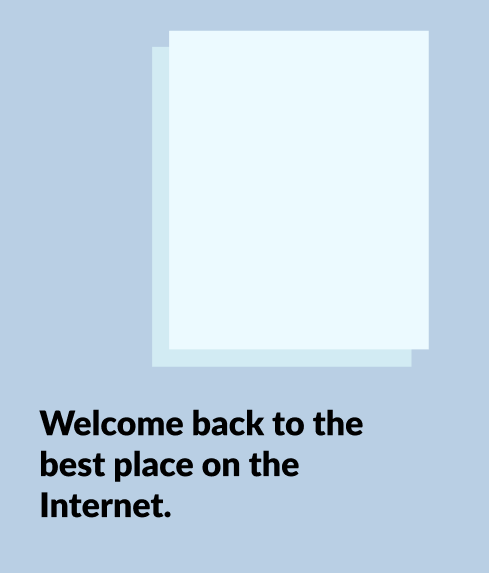
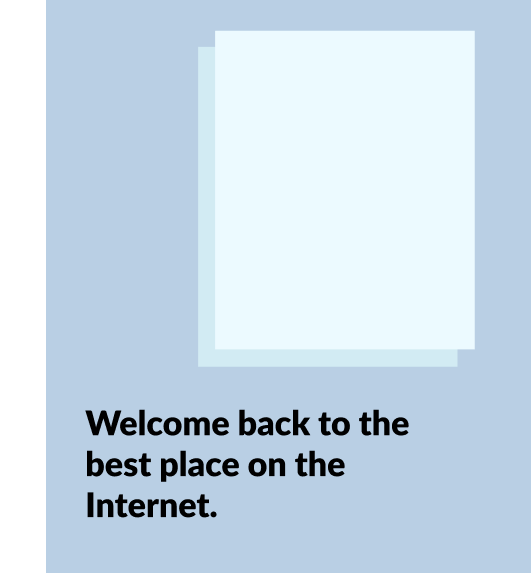
Design changes

Changed region(s): [[0.0, 0.0, 0.7669, 1.0], [0.3067, 0.0297, 0.4294, 0.6527], [0.8282, 0.0593, 0.9202, 0.6527]]

diff --git a/styles.css b/styles.css
@@ -10,10 +10,10 @@ h1 {
 }
 
 .nav-bar {
-	width:100%;
-	height:100px;
-	display:block;
-	float:left;
+	width:97%;
+	height:40px;
+	padding:10px 15px;
+	display:inline-block;
 }
 
 .texchange {
@@ -68,7 +68,7 @@ a {
 }
 
 .form {
-	margin:50px 100px;
+	margin:100px;
 }
 
 .form-box {
@@ -127,7 +127,7 @@ img.register {
 .hero-text {
 	width:50%;
 	margin-left:100px;
-	margin-top:50px;
+	margin-top:130px;
 }
 
 .hero-text h1 {
@@ -215,11 +215,23 @@ img.register {
 	font-weight: 800;
 	font-size: 1.25em;
 	line-height: 0.75em;
-	padding:5px;
+	padding:7px 14px;
 
 	color:#000000;
 
-	margin-bottom:20px;
+	margin-bottom:12px;
+
+	border:#AAA 1px solid;
+	background-color:#EEE;
+
+    -webkit-transition: all .5s;
+    -moz-transition: all .5s;
+    -o-transition: all .5s;
+    transition: all .5s;
+}
+
+.search-bar:hover {
+	background-color:#DDD;
 }
 
 #textbookTable {
@@ -229,24 +241,49 @@ img.register {
 #textbookTable tr {
 	width:20%;
 	float:left;
-	height:350px;
+	height:auto;
 	border:#AAA 1px solid;
 	margin:1%;
 	padding:1%;
 	text-align:center;
+	background-color:#EEE;
+
+    -webkit-transition: all .5s;
+    -moz-transition: all .5s;
+    -o-transition: all .5s;
+    transition: all .5s;
 }
 
 #textbookTable td {
 	width:100%;
-	height:350px;
+	display:inline-block;
+	overflow: hidden;
 }
 
 #textbookTable tr:hover {
-	background:#DDD;
-	border:#DDD 1px solid;
+	background-color:#DDD;
 }
 
-#textbookTable td img {
-	height:90%;
-	width:auto;
+#textbookTable td .search-result {
+	width:100%;
+	height:300px;
+	background-size: cover;
+	background-repeat:no-repeat;
+	background-position:center;
+}
+
+#textbookTable td #designBook {
+	background-image:url("designBook.jpg");
+}
+
+#textbookTable td #musicBook {
+	background-image:url("musicBusiness.jpg");
+}
+
+#textbookTable td #statBook {
+	background-image:url("statistic.jpeg");
+}
+
+#textbookTable td #psycLabBook {
+	background-image:url("psycLabBook.jpeg");
 }

diff --git a/search.html b/search.html
@@ -14,7 +14,7 @@
 	<!-- meta character set -->
 	<meta charset="UTF-8">
 	<!-- Site Title -->
-	<title>Search | TexChange</title>
+	<title>Textbooks | TexChange</title>
 	<link rel="stylesheet" href="styles.css">
 </head>
 <body>
@@ -31,21 +31,21 @@
         </nav>
     </div>
     <div class="container-95">
-        <h1>Search</h1>
-        <input class="search-bar" type="text" id="input" onkeyup="filterSearch()" placeholder="Search for textbooks...">
+        <h1>Textbooks</h1>
+        <input class="search-bar" type="text" id="input" onkeyup="filterSearch()" placeholder="Filter by textbook name...">
 
         <table id="textbookTable">
             <tr class="row">
-                <td><a href="designBook.html"><img src="designbook.jpg" alt="Design Textbook">Designing Interactive Systems</a></td>
+                <td><a href="designBook.html"><div id="designBook" class="search-result"></div><br>Designing Interactive Systems</a></td>
             </tr>
             <tr class="row">
-                <td><a href="musicBook.html"><img src="musicbusiness.jpg" alt="Music Industry">Music Industry</a></td>
+                <td><a href="musicBook.html"><div id="musicBook" class="search-result"></div><br>Music Industry</a></td>
             </tr>
             <tr class="row">
-                <td><a href="statBook.html"><img src="statistic.jpeg" alt="Statistics">Statistics</a></td>
+                <td><a href="statBook.html"><div id="statBook" class="search-result"></div><br>Statistics</a></td>
             </tr>
             <tr class="row">
-                <td><a href="psycLabBook.html"><img src="psycLabBook.jpeg" alt="Writing Papers in Psychology">Writing Papers in Psychology</a></td>
+                <td><a href="psycLabBook.html"><div id="psycLabBook" class="search-result"></div><br>Writing Papers in Psychology</a></td>
             </tr>
         </table>
 

diff --git a/makeSell.html b/makeSell.html
@@ -25,15 +25,15 @@
                                         <option value="CogLab">Writing Papers in Psychology</option>
                                         <option value="Stat">Statistics</option>
                                     </select></span><br>
-    <button onclick="openHelp()">Help</button>
+    <button class="secondary-button" onclick="openHelp()">Help</button>
     <span class="form-field">Price ($): <input type="number" min="0.00" step="0.01" name="Price" value="" required></span><br>
     <span class="form-field">Condition: <select>
                                             <option value="New">New</option>
                                             <option value="Used">Used</option>
                                         </select></span><br>
 
-    <button type="button" onclick="closeCurWindow()">Cancel</button>
-	<button type="button" onclick="submitted()">Submit</button>
+    <button class="secondary-button" type="button" onclick="closeCurWindow()">Cancel</button>
+	<button class="secondary-button" type="button" onclick="submitted()">Submit</button>
 	
 	<script>
 	function closeCurWindow() {

diff --git a/makeTrade.html b/makeTrade.html
@@ -25,15 +25,15 @@
                                         <option value="CogLab">Writing Papers in Psychology</option>
                                         <option value="Stat">Statistics</option>
                                     </select></span><br>
-    <button onclick="openHelp()">Help</button>
+    <button class="secondary-button" onclick="openHelp()">Help</button>
     <span class="form-field">Condition: <select>
                                             <option value="New">New</option>
                                             <option value="Used">Used</option>
                                         </select></span><br>
     <span class="form-field">Option: <input type="text" name="Option" value="Type the books you want"></span><br>
 
-    <button type="button" onclick="closeCurWindow()">Cancel</button>
-	<button type="button" onclick="submitted()">Submit</button>
+    <button class="secondary-button" type="button" onclick="closeCurWindow()">Cancel</button>
+	<button class="secondary-button" type="button" onclick="submitted()">Submit</button>
 	
 	<script>
 	function closeCurWindow() {

diff --git a/createNew.html b/createNew.html
@@ -31,8 +31,6 @@
         </nav>
     </div>
 
-    <button onclick="location.href='userProf.html'" type="button">Account</button>
-
     <h2><u>Create New Listing</u></h2>
 
     <form action="search.html", onsubmit="submitted()">
@@ -43,10 +41,10 @@
             <span class="form-field">Professor: <input type="text" name="Professor" value="" required></span><br>
             <!-- Upload image -->
             <span class="form-field">Picture: <input type="file" name="Picture" accept="image/*"></span><br>
-            <input type="submit" value="Submit">
+            <input class="secondary-button"  class="secondary-button"type="submit" value="Submit">
                 
         </form>
-    <button type="button" onclick="location.href='search.html'">Cancel</button>
+    <button class="secondary-button" type="button" onclick="location.href='search.html'">Cancel</button>
 
     <script>
     

diff --git a/tradeTable.html b/tradeTable.html
@@ -35,9 +35,13 @@ th {
         <div class="texchange">
             TEXCHANGE
         </div>
+        <nav>
+            <ul class="nav-menu">
+                <li><a href="userProf.html">Account</a></li>
+                <li><a href="index.html">Log out</a></li>
+            </ul>
+        </nav>
     </div>
-
-    <button onclick="location.href='userProf.html'" type="button">Account</button>
 
     <h2><u>TRADE</u></h2>
     <p>The following people owns a copy of this book and are willing to trade for the books listed under "Book Wanted" column.</p>
@@ -95,7 +99,7 @@ th {
             <td>New</td>
         </tr>
     </table>
-    <button type="button" onclick="createTrade()">Create Trade</button>
+    <button class="secondary-button" type="button" onclick="createTrade()">Create Trade</button>
 
     <script>
     function createTrade(){

diff --git a/userProf.html b/userProf.html
@@ -58,12 +58,12 @@ th {
             <tr>
               <td>SELL</td>
               <td>Music Business</td>
-              <td><button type="button">remove</button></td>
+              <td><button class="secondary-button" type="button">remove</button></td>
             </tr>
           </table>
 
-    <button type="button" onclick="createSell()">Create Sell</button>
-    <button type="button" onclick="createTrade()">Create Trade</button>
+    <button class="secondary-button" type="button" onclick="createSell()">Create Sell</button>
+    <button class="secondary-button" type="button" onclick="createTrade()">Create Trade</button>
 
     <script>
     function createSell(){

diff --git a/psycLabBook.html b/psycLabBook.html
@@ -34,7 +34,6 @@
     <div class="container-95">
 
         <div class="container-55">
-            <button onclick="location.href='userProf.html'" type="button">Account</button>
 
             <h4 class="category">Book Title</h4> <p>Writing Papers in Psychology</p>
             <h4 class="category">Author</h4> <p>Ralph L. Rosnow, Mimi Rosnow</p>

diff --git a/buyTable.html b/buyTable.html
@@ -43,8 +43,6 @@ th {
         </nav>
     </div>
 
-    <button onclick="location.href='userProf.html'" type="button">Account</button>
-
     <h2><u>BUY</u></h2>
 
     <table>
